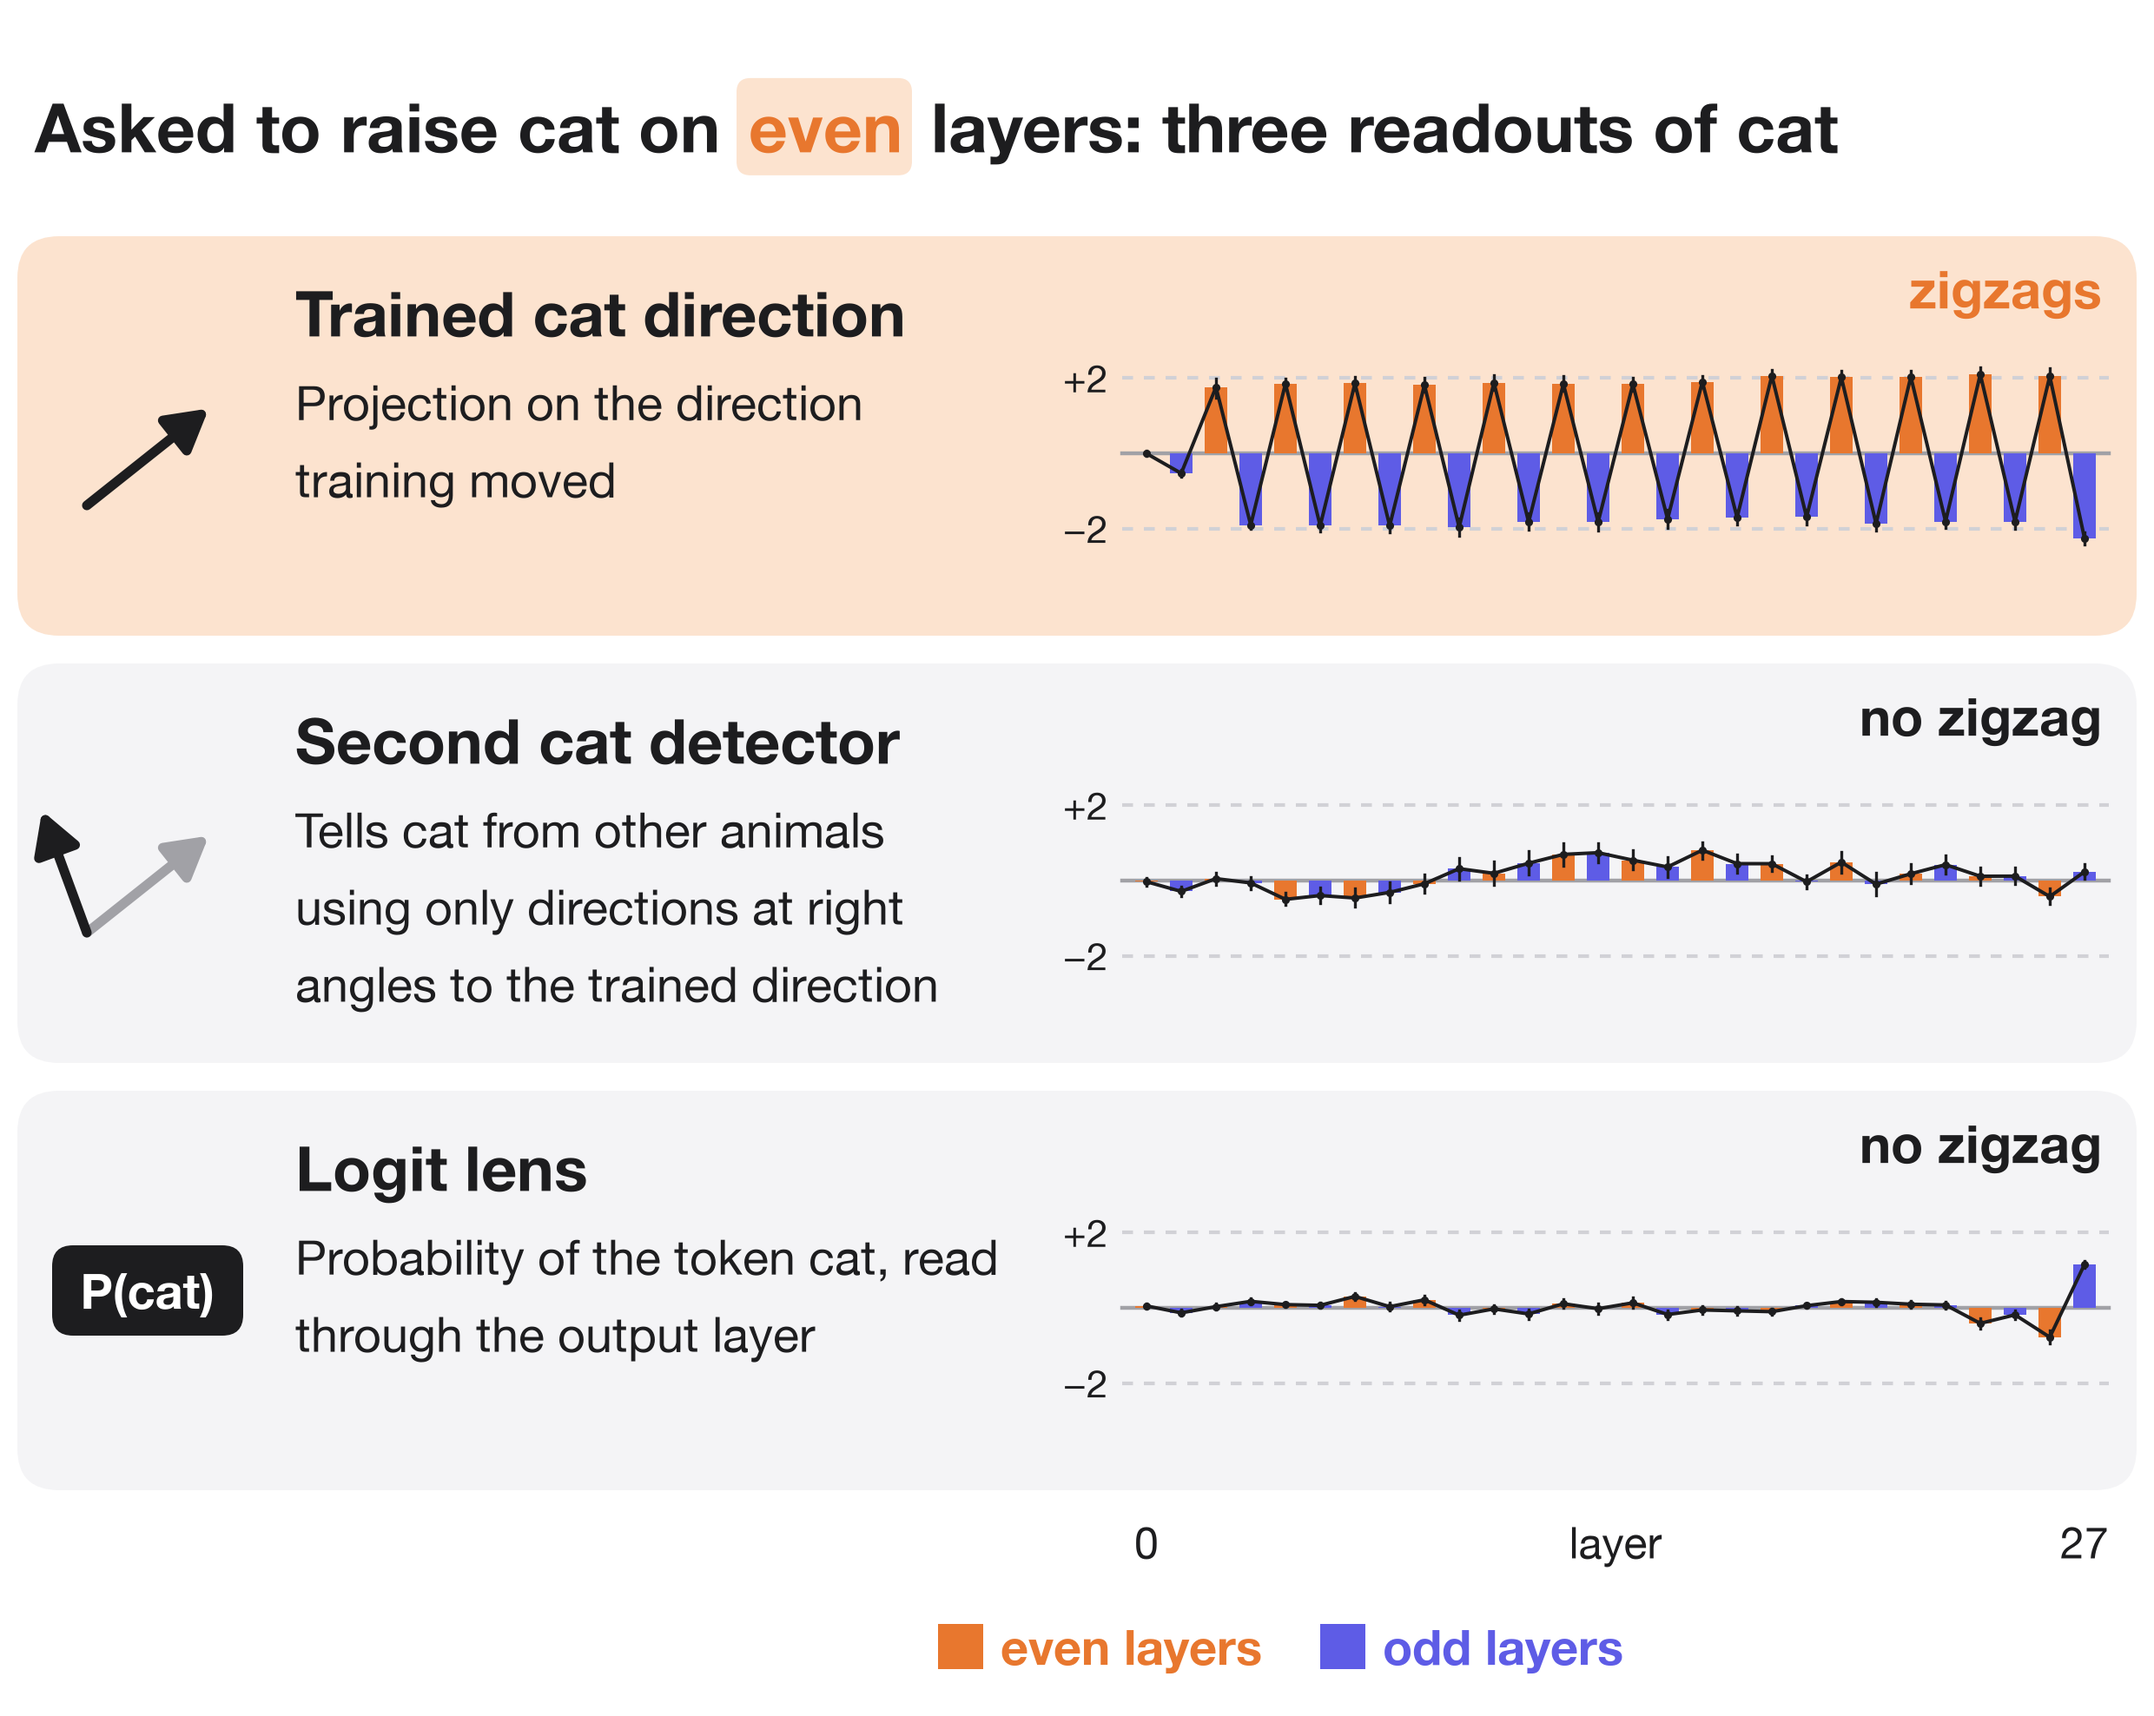
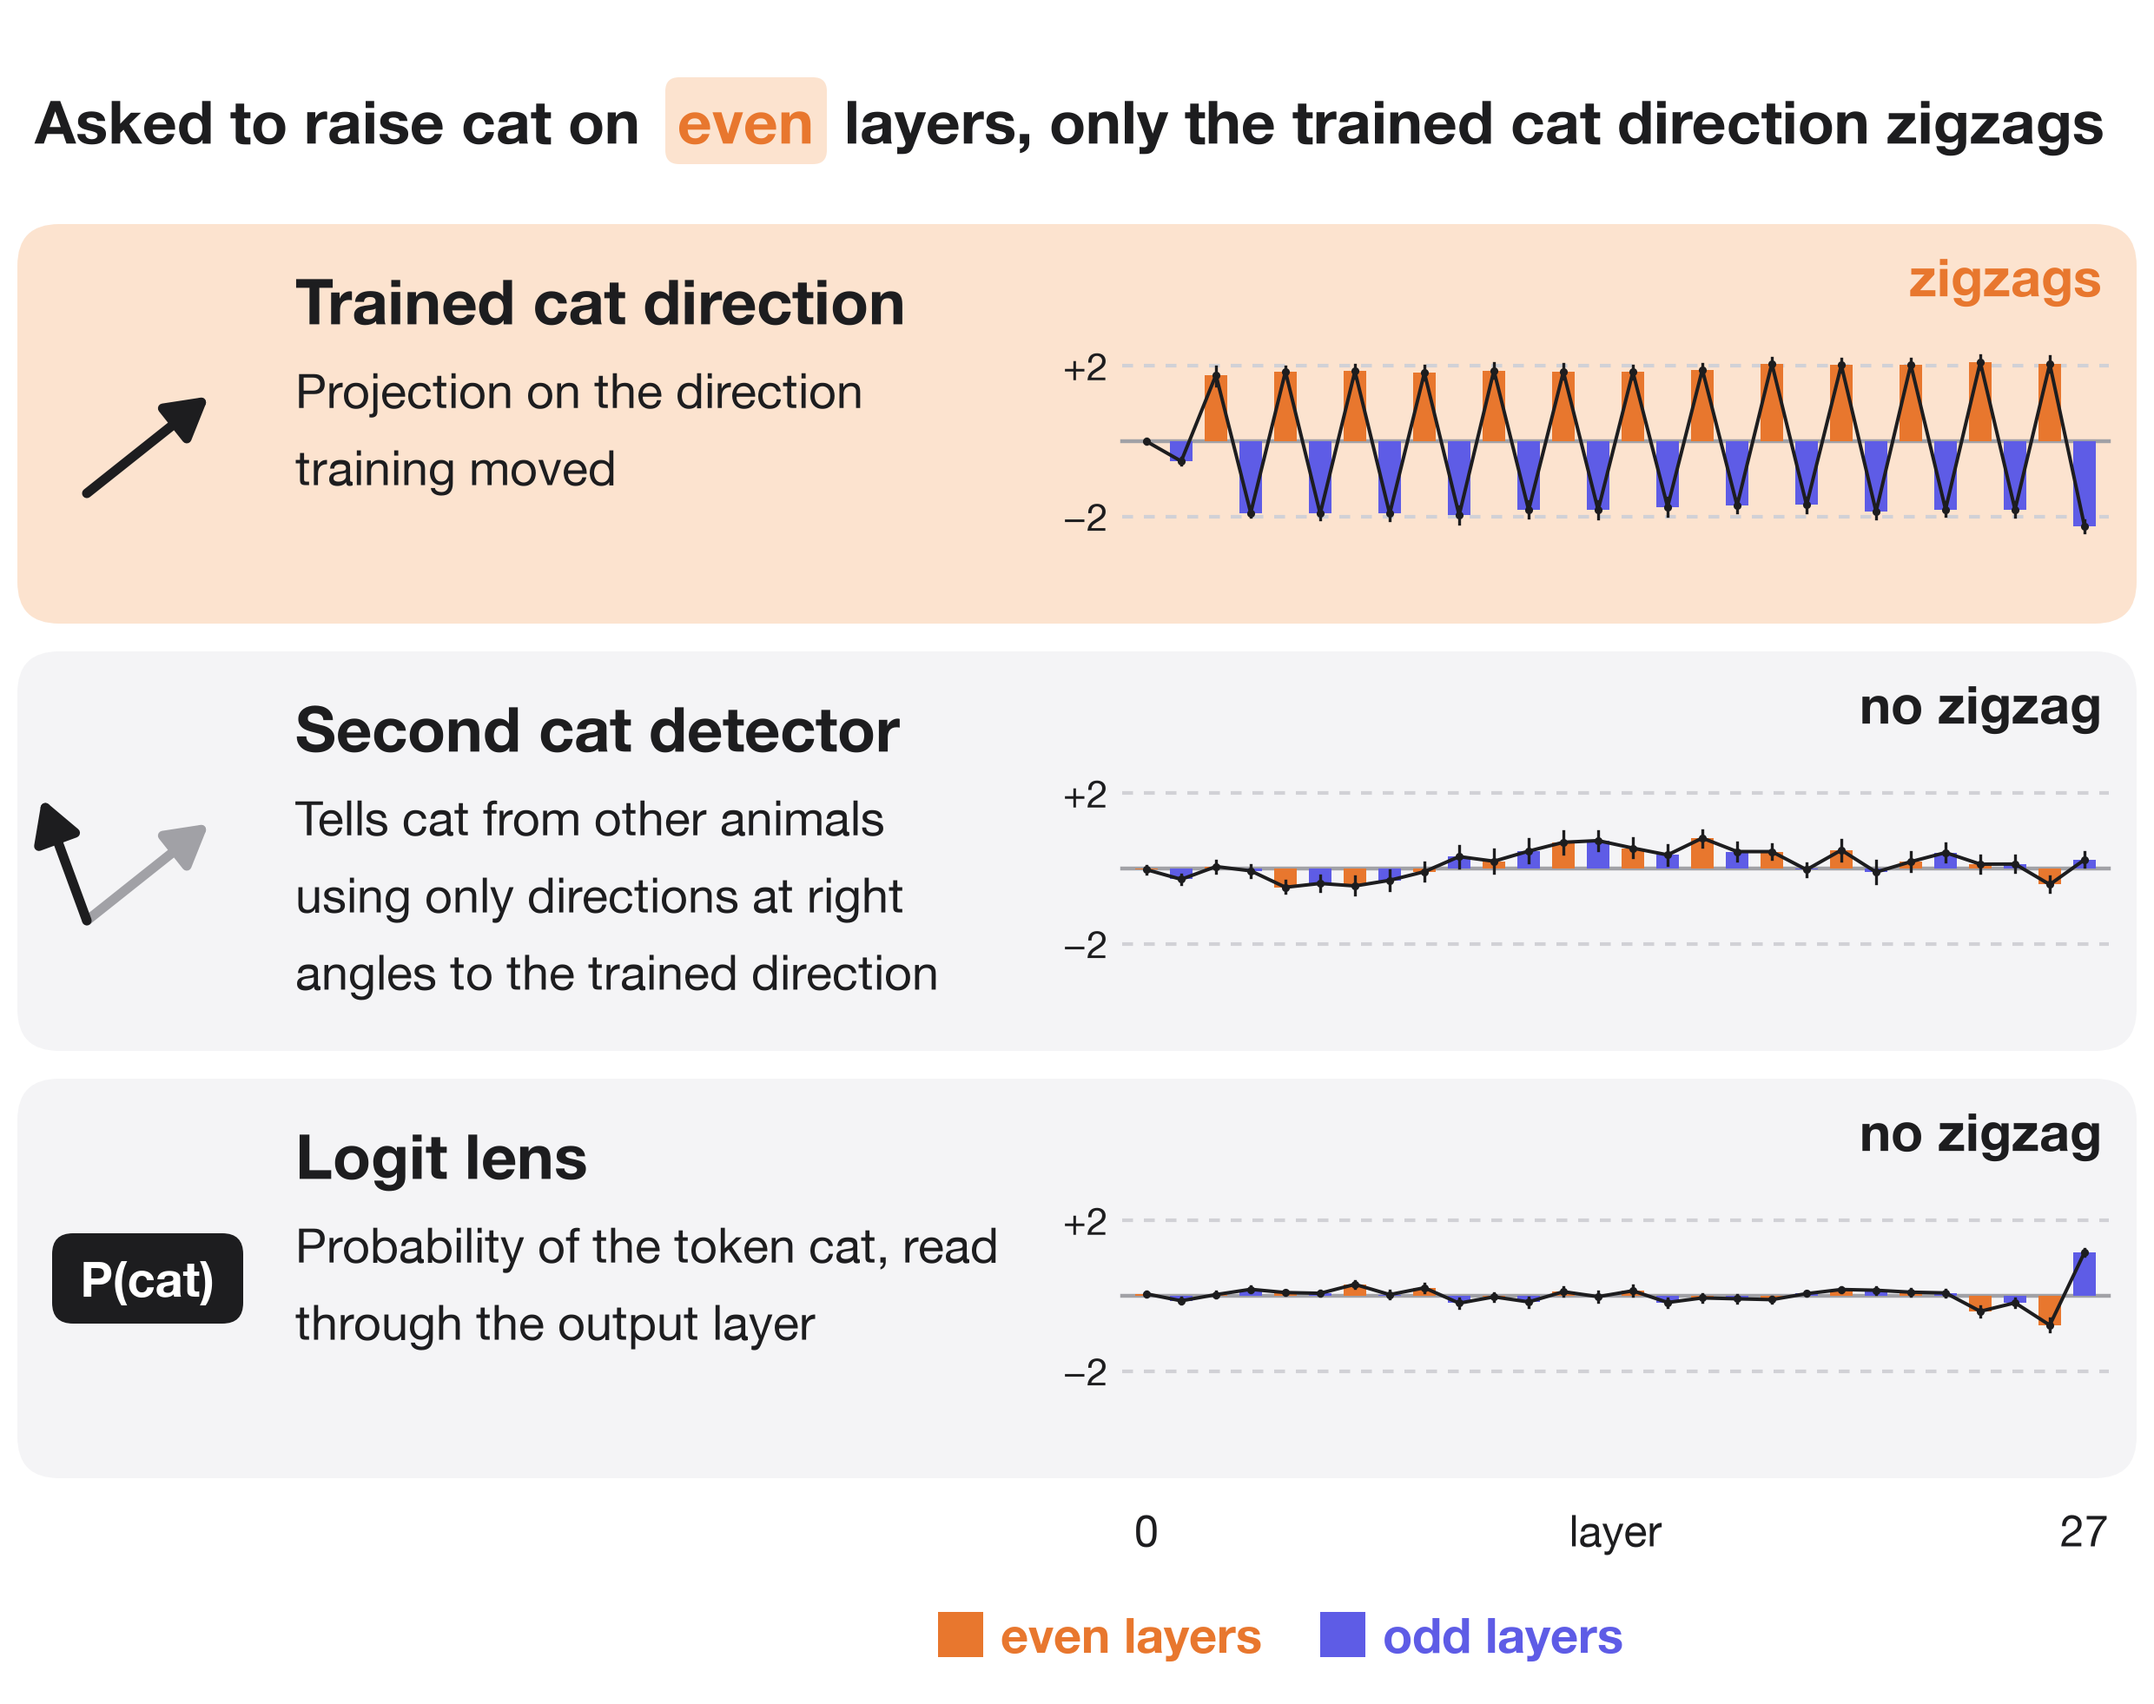
Readouts figure: full-sentence title

diff --git a/figures/make_figures.py b/figures/make_figures.py
@@ -593,7 +593,7 @@ def readouts():
     R = load("readouts_run6.json")["readouts"]
     width, x0, sw, sh = 1240, 650, 560, 130
     fig, ax = canvas(width, 1400)
-    y = rich(ax, 20, 1360, "Asked to raise cat on even layers: three readouts of cat", 28, 1200, strong=True) - 30
+    y = rich(ax, 20, 1360, "Asked to raise cat on even layers, only the trained cat direction zigzags", 25, 1210, strong=True) - 30
     rows = (("Trained cat direction", "Projection on the direction training moved", "trained_c", "zigzags"),
             ("Second cat detector", "Tells cat from other animals using only directions at right angles to the "
              "trained direction", "probe_perp", "no zigzag"),
